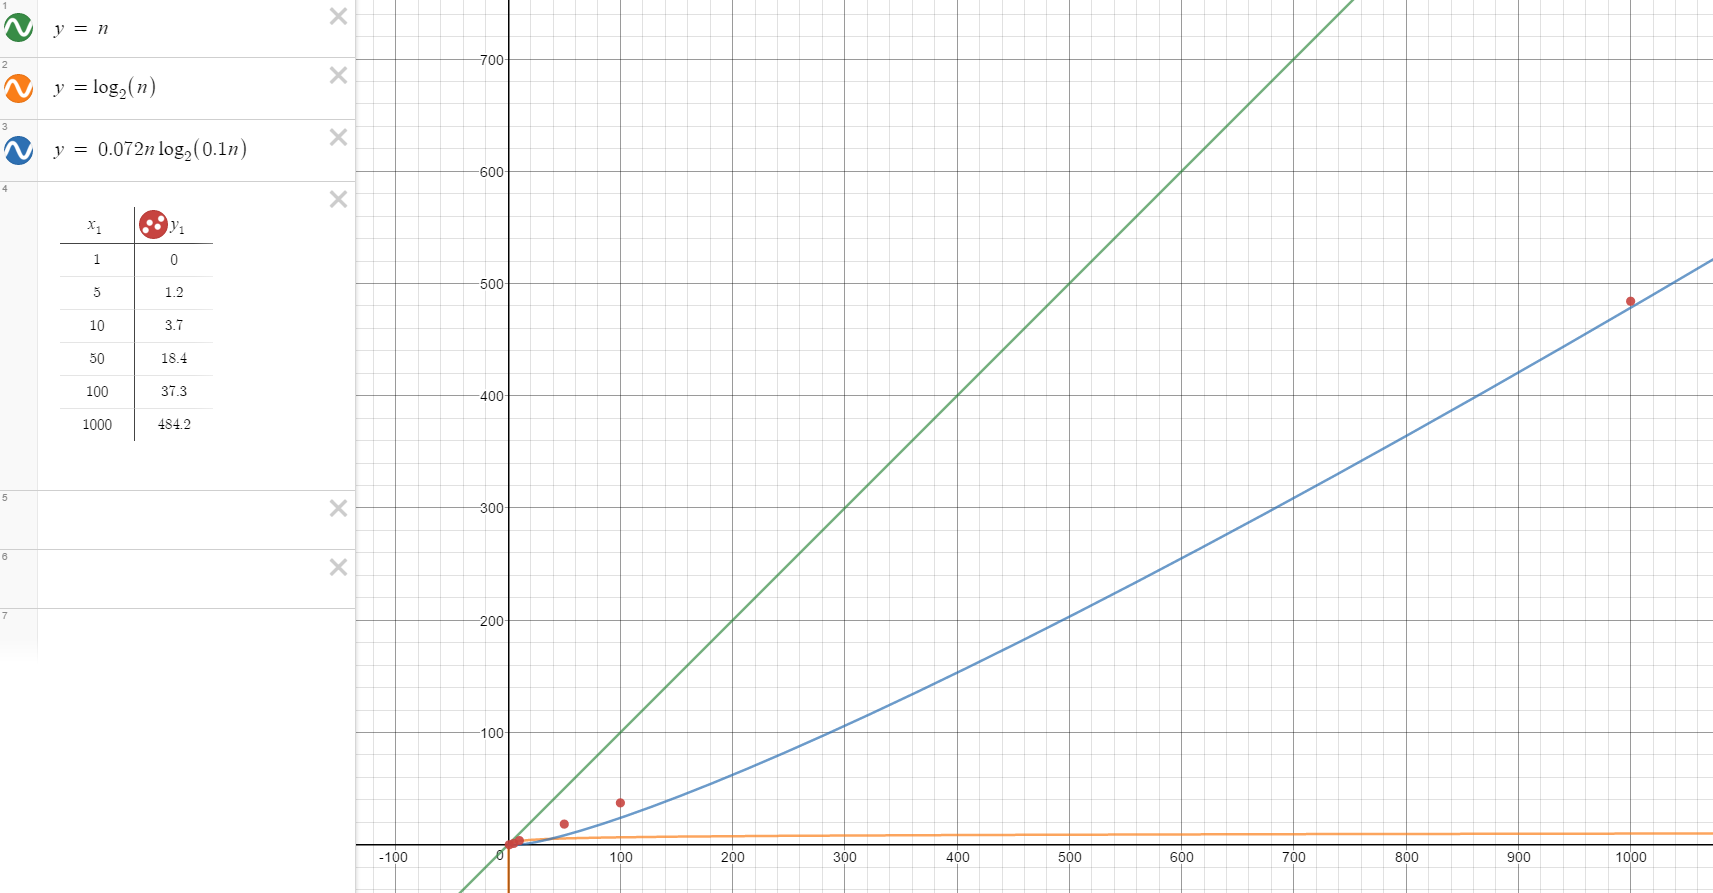
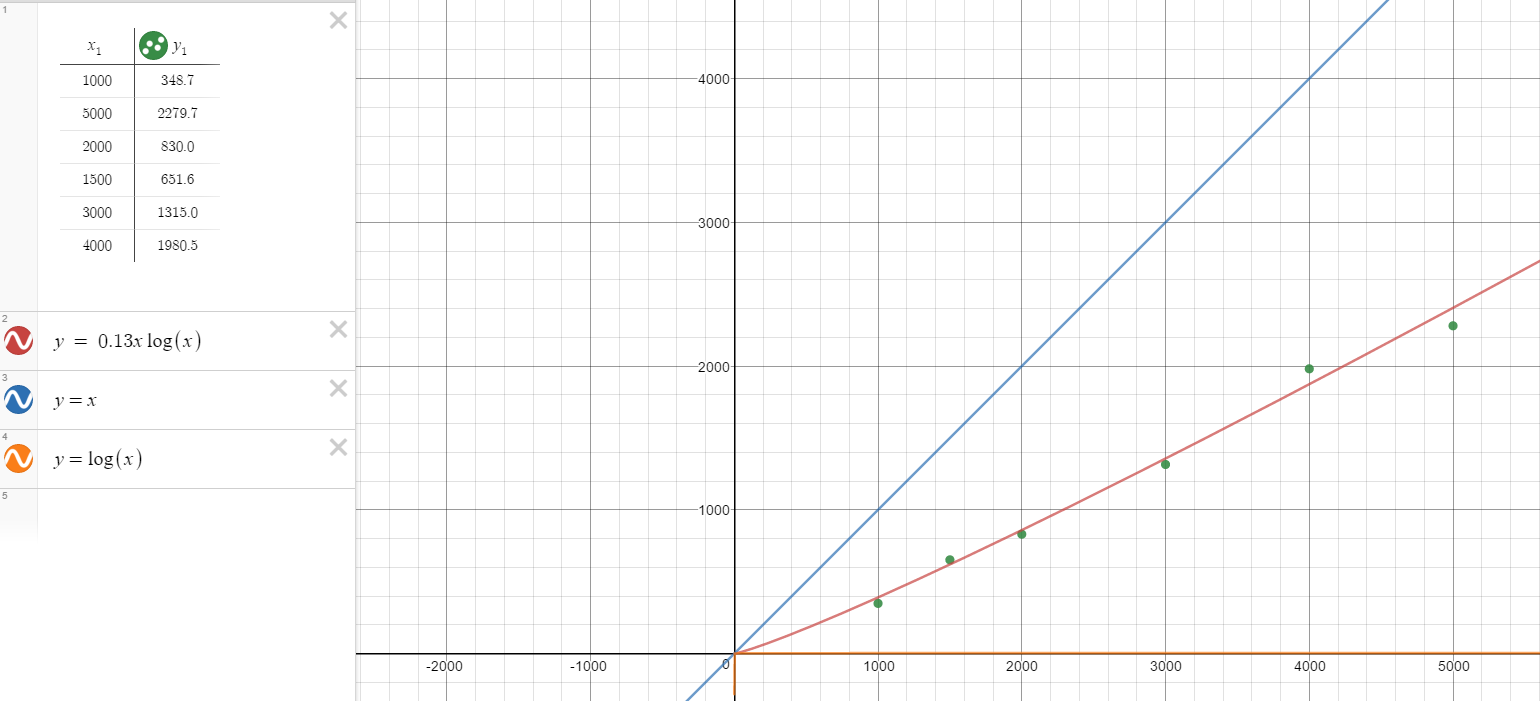
revisions

diff --git a/MergeSortTester.java b/MergeSortTester.java
@@ -41,150 +41,33 @@ public class MergeSortTester
     
     public static void main( String[] args ) 
     {
-	int[] test1= new int [1];
-	int[] test10 = new int [10];
-	int[] test5 = new int [5];
-	int[] test50 = new int [50];
-	int[] test100 = new int[100];
-	int[] test1000 = new int[1000];
+	int[] test1000= new int [1000];
+	int[] test1500 = new int [1500];
+	int[] test2000 = new int [2000];
+	int[] test5000 = new int [5000];
+	int[] test4000 = new int[4000];
+	int[] test3000 = new int[3000];
 	
 	double a = 0;
 	double b = 0;
-	double time1 = 0;
-	double time5 = 0;
-	double time10 = 0;
-	double time50 = 0;
-	double time100 = 0;
 	double time1000 = 0;
-	
-	System.out.println("~~~~~~~~~~ARRAY n=1~~~~~~~~~~~~~~"); 
-	int counter = 0;
-
-	while (counter < 9){
-	    //populate an array with one item
-	    test1[0] = (int) (Math.random() *10);
-	    System.out.println("Testing on array ");
-	    MergeSort.printArray(test1);
-	    System.out.print(" ....\n");
-	    //start stopwatch
-	    a = System.currentTimeMillis();
-	    MergeSort.sort(test1);
-	    b= System.currentTimeMillis();
-	    System.out.println("Time: " + (b - a));
-	    time1 += b-a;
-	    counter ++;
-	}
-
-	System.out.println("~~~~~~~~~~~~~~~~~~~~~~~~~");
-
-	System.out.println("~~~~~~~~~~ARRAY n=10~~~~~~~~~~~~~~");
-	counter = 0;
-	while (counter<9){
-	    //populate a 10 item array
-	    int x = 0;
-	    while(x<10){
-		test10[x] = (int) (Math.random() * 50);
-		x++;
-	    }
-	    System.out.println("Testing on array ");
-	    MergeSort.printArray(test10);
-	    System.out.print(" ....\n");
-
-	    //start stopwatch
-	    a = System.currentTimeMillis();
-	    MergeSort.sort(test10);
-	    b= System.currentTimeMillis();
-
-	    System.out.println("Time: " + (b - a));
-	    time10 += b-a;
-	    counter ++;
-	}
-
-	System.out.println("~~~~~~~~~~~~~~~~~~~~~~~~~");
-
-	System.out.println("~~~~~~~~~~ARRAY n=5~~~~~~~~~~~~~~");
-	counter = 0;
-	while (counter<9){
-	    //populate a 5 item array
-	    int p = 0;
-	    while(p<5){
-		test5[p] = (int) (Math.random() * 50);
-		p++;
-	    }
-	    System.out.println("Testing on array ");
-	    MergeSort.printArray(test5);
-	    System.out.print(" ....\n");
-
-	    //start stopwatch
-	    a = System.currentTimeMillis();
-	    MergeSort.sort(test5);
-	    b= System.currentTimeMillis();
-
-	    System.out.println("Time: " + (b - a));
-	    time5 += b-a;
-	    counter ++;
-	}
-
-	System.out.println("~~~~~~~~~~~~~~~~~~~~~~~~~");
-
-       	System.out.println("~~~~~~~~~~ARRAY n=50~~~~~~~~~~~~~~");
-	counter = 0;
-	while (counter<9){
-	    //populate a 50 item array
-	    int y = 0;
-	    while(y<50){
-		test50[y] = (int) (Math.random() * 50);
-		y++;
-	    }
-	    System.out.println("Testing on array ");
-	    MergeSort.printArray(test50);
-	    System.out.print(" ....\n");
-
-	    //start stopwatch
-	    a = System.currentTimeMillis();
-	    MergeSort.sort(test50);
-	    b= System.currentTimeMillis();
-
-	    System.out.println("Time: " + (b - a));
-	    time50 += b-a;
-	    counter ++;
-	}
-
-	System.out.println("~~~~~~~~~~~~~~~~~~~~~~~~~");
-
-	System.out.println("~~~~~~~~~~ARRAY n=100~~~~~~~~~~~~~~");
-	counter = 0;
-	while (counter<9){
-	    //populate a 100 item array
-	    int z = 0;
-	    while(z<100){
-		test100[z] = (int) (Math.random() * 100);
-		z++;
-	    }
-	    System.out.println("Testing on array ");
-	    MergeSort.printArray(test100);
-	    System.out.print(" ....\n");
-
-	    //start stopwatch
-	    a = System.currentTimeMillis();
-	    MergeSort.sort(test100);
-	    b= System.currentTimeMillis();
-
-	    System.out.println("Time: " + (b - a));
-	    time100 += b-a;
-	    counter ++;
-	}
+	double time5000 = 0;
+	double time2000 = 0;
+	double time1500 = 0;
+	double time3000 = 0;
+	double time4000 = 0;
+      
 
 	System.out.println("~~~~~~~~~~~~~~~~~~~~~~~~~");
 
 	System.out.println("~~~~~~~~~~ARRAY n=1000~~~~~~~~~~~~~~");
-	counter = 0;
+	int counter = 0;
 	while (counter<9){
 	    //populate a 1000 item array
-	    int q = 0;
-	    while(q<1000){
-		test1000[q] = (int) (Math.random() * 1000);
-		q++;
+	    int x = 0;
+	    while(x<1000){
+		test1000[x] = (int) (Math.random() * 50);
+		x++;
 	    }
 	    System.out.println("Testing on array ");
 	    MergeSort.printArray(test1000);
@@ -201,13 +84,139 @@ public class MergeSortTester
 	}
 
 	System.out.println("~~~~~~~~~~~~~~~~~~~~~~~~~");
+
+	System.out.println("~~~~~~~~~~ARRAY n=5000~~~~~~~~~~~~~~");
+	counter = 0;
+	while (counter<9){
+	    //populate a 5000 item array
+	    int p = 0;
+	    while(p<5000){
+		test5000[p] = (int) (Math.random() * 50);
+		p++;
+	    }
+	    System.out.println("Testing on array ");
+	    MergeSort.printArray(test5000);
+	    System.out.print(" ....\n");
+
+	    //start stopwatch
+	    a = System.currentTimeMillis();
+	    MergeSort.sort(test5000);
+	    b= System.currentTimeMillis();
+
+	    System.out.println("Time: " + (b - a));
+	    time5000 += b-a;
+	    counter ++;
+	}
+
+	System.out.println("~~~~~~~~~~~~~~~~~~~~~~~~~");
+
+       	System.out.println("~~~~~~~~~~ARRAY n=1500~~~~~~~~~~~~~~");
+	counter = 0;
+	while (counter<9){
+	    //populate a 1500 item array
+	    int y = 0;
+	    while(y<1500){
+		test1500[y] = (int) (Math.random() * 50);
+		y++;
+	    }
+	    System.out.println("Testing on array ");
+	    MergeSort.printArray(test1500);
+	    System.out.print(" ....\n");
+
+	    //start stopwatch
+	    a = System.currentTimeMillis();
+	    MergeSort.sort(test1500);
+	    b= System.currentTimeMillis();
+
+	    System.out.println("Time: " + (b - a));
+	    time1500 += b-a;
+	    counter ++;
+	}
+
+	System.out.println("~~~~~~~~~~~~~~~~~~~~~~~~~");
+
+	System.out.println("~~~~~~~~~~ARRAY n=2000~~~~~~~~~~~~~~");
+	counter = 0;
+	while (counter<9){
+	    //populate a 2000 item array
+	    int z = 0;
+	    while(z<2000){
+		test2000[z] = (int) (Math.random() * 50);
+		z++;
+	    }
+	    System.out.println("Testing on array ");
+	    MergeSort.printArray(test2000);
+	    System.out.print(" ....\n");
+
+	    //start stopwatch
+	    a = System.currentTimeMillis();
+	    MergeSort.sort(test2000);
+	    b= System.currentTimeMillis();
+
+	    System.out.println("Time: " + (b - a));
+	    time2000 += b-a;
+	    counter ++;
+	}
+
+	System.out.println("~~~~~~~~~~~~~~~~~~~~~~~~~");
+
+	System.out.println("~~~~~~~~~~ARRAY n=3000~~~~~~~~~~~~~~");
+	counter = 0;
+	while (counter<9){
+	    //populate a 3000 item array
+	    int q = 0;
+	    while(q<3000){
+		test3000[q] = (int) (Math.random() * 1000);
+		q++;
+	    }
+	    System.out.println("Testing on array ");
+	    MergeSort.printArray(test3000);
+	    System.out.print(" ....\n");
+
+	    //start stopwatch
+	    a = System.currentTimeMillis();
+	    MergeSort.sort(test3000);
+	    b= System.currentTimeMillis();
+
+	    System.out.println("Time: " + (b - a));
+	    time3000 += b-a;
+	    counter ++;
+	}
+
+	System.out.println("~~~~~~~~~~~~~~~~~~~~~~~~~");
+
+		System.out.println("~~~~~~~~~~ARRAY n=4000~~~~~~~~~~~~~~");
+	counter = 0;
+	while (counter<9){
+	    //populate a 4000 item array
+	    int q = 0;
+	    while(q<4000){
+		test4000[q] = (int) (Math.random() * 1000000);
+		q++;
+	    }
+	    System.out.println("Testing on array ");
+	    MergeSort.printArray(test4000);
+	    System.out.print(" ....\n");
+
+	    //start stopwatch
+	    a = System.currentTimeMillis();
+	    MergeSort.sort(test4000);
+	    b= System.currentTimeMillis();
+
+	    System.out.println("Time: " + (b - a));
+	    time4000 += b-a;
+	    counter ++;
+	}
+
+	System.out.println("~~~~~~~~~~~~~~~~~~~~~~~~~");
+
 	
-	System.out.println("AVG TIME FOR n=1:" + (time1 *1.0 / 10));
-	System.out.println("AVG TIME FOR n=5:" + (time5 *1.0 / 10));		
-	System.out.println("AVG TIME FOR n=10:" + (time10 *1.0 / 10));
-	System.out.println("AVG TIME FOR n=50:" + (time50 *1.0 / 10));
-	System.out.println("AVG TIME FOR n=100:" + (time100 *1.0 / 10));
-	System.out.println("AVG TIME FOR n=1000:" + (time1000 *1.0 / 10));		
+	System.out.println("AVG TIME FOR n=1000:" + (time1000 *1.0 / 10));
+	System.out.println("AVG TIME FOR n=5000:" + (time5000 *1.0 / 10));		
+	System.out.println("AVG TIME FOR n=2000:" + (time2000 *1.0 / 10));
+	System.out.println("AVG TIME FOR n=1500:" + (time1500 *1.0 / 10));
+	System.out.println("AVG TIME FOR n=3000:" + (time3000 *1.0 / 10));
+	System.out.println("AVG TIME FOR n=4000:" + (time4000 *1.0 / 10));		
 	/*
 	System.out.println("Standard nlogn time when n is 9");
 	System.out.println("Time merge sort takes to sort array of length 9");
